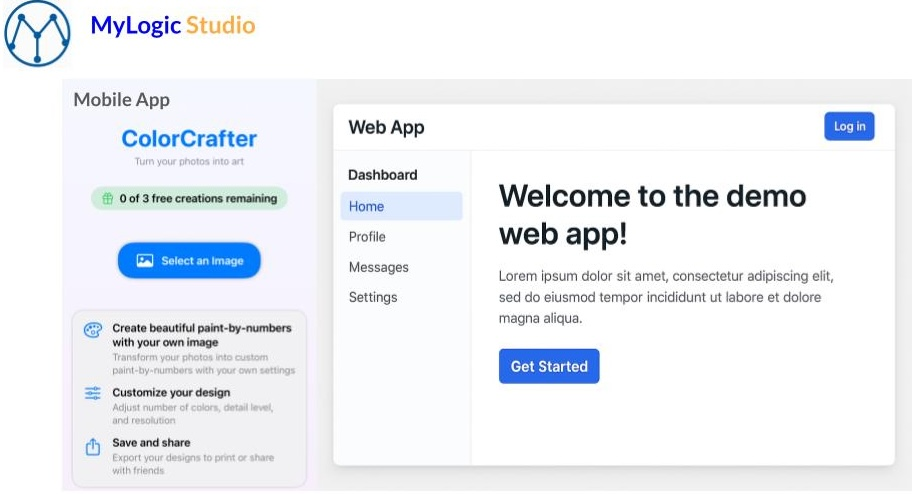
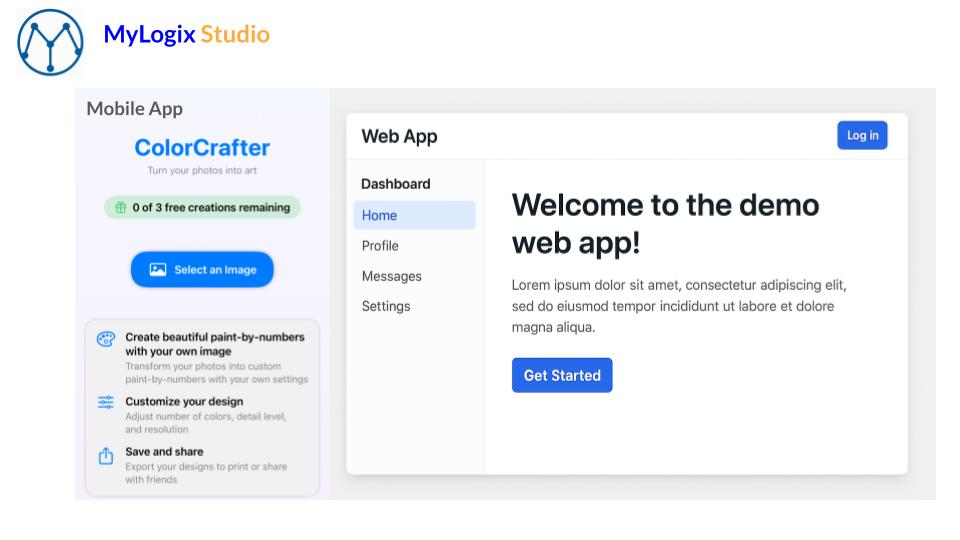
Update website content and images

diff --git a/src/pages/TermsOfServicePage.tsx b/src/pages/TermsOfServicePage.tsx
@@ -99,7 +99,7 @@ const TermsOfServicePage: React.FC = () => {
         
         <TermsText>
           Please read these Terms of Service ("Terms") carefully before using the ColorCrafter mobile 
-          application (the "App") operated by MyLogic Studio LLC ("us", "we", or "our").
+          application (the "App") operated by MyLogix Studio LLC ("us", "we", or "our").
         </TermsText>
         
         <TermsText>
@@ -203,12 +203,12 @@ const TermsOfServicePage: React.FC = () => {
         <TermsTitle>6. Intellectual Property</TermsTitle>
         <TermsList>
           <TermsListItem>
-            The App, including all content, features, and functionality, is owned by MyLogic 
+            The App, including all content, features, and functionality, is owned by MyLogix 
             Studio LLC and is protected by United States and international copyright, trademark, 
             patent, trade secret, and other intellectual property laws.
           </TermsListItem>
           <TermsListItem>
-            ColorCrafter is a trademark of MyLogic Studio LLC.
+            ColorCrafter is a trademark of MyLogix Studio LLC.
           </TermsListItem>
           <TermsListItem>
             Paint-by-numbers templates generated by the App are for personal use only. Commercial 
@@ -222,7 +222,7 @@ const TermsOfServicePage: React.FC = () => {
           EXPRESS OR IMPLIED, INCLUDING, BUT NOT LIMITED TO, IMPLIED WARRANTIES OF MERCHANTABILITY, 
           FITNESS FOR A PARTICULAR PURPOSE, NON-INFRINGEMENT OR COURSE OF PERFORMANCE.
           <br /><br />
-          MyLogic Studio LLC DOES NOT WARRANT THAT: (A) THE APP WILL FUNCTION UNINTERRUPTED, 
+          MyLogix Studio LLC DOES NOT WARRANT THAT: (A) THE APP WILL FUNCTION UNINTERRUPTED, 
           SECURE OR AVAILABLE AT ANY PARTICULAR TIME OR LOCATION; (B) ANY ERRORS OR DEFECTS WILL 
           BE CORRECTED; (C) THE APP IS FREE OF VIRUSES OR OTHER HARMFUL COMPONENTS; OR (D) THE 
           RESULTS OF USING THE APP WILL MEET YOUR REQUIREMENTS.
@@ -230,7 +230,7 @@ const TermsOfServicePage: React.FC = () => {
 
         <TermsTitle>8. Limitation of Liability</TermsTitle>
         <Disclaimer>
-          IN NO EVENT SHALL MyLogic Studio LLC BE LIABLE FOR ANY INDIRECT, INCIDENTAL, SPECIAL, 
+          IN NO EVENT SHALL MyLogix Studio LLC BE LIABLE FOR ANY INDIRECT, INCIDENTAL, SPECIAL, 
           CONSEQUENTIAL OR PUNITIVE DAMAGES, INCLUDING WITHOUT LIMITATION, LOSS OF PROFITS, DATA, 
           USE, GOODWILL, OR OTHER INTANGIBLE LOSSES, RESULTING FROM YOUR ACCESS TO OR USE OF OR 
           INABILITY TO ACCESS OR USE THE APP.
@@ -257,7 +257,7 @@ const TermsOfServicePage: React.FC = () => {
           If you have any questions about these Terms of Service, please contact us at:
         </TermsText>
         <ContactInfo>
-          <strong>MyLogic Studio LLC</strong><br />
+          <strong>MyLogix Studio LLC</strong><br />
           Email: mls@mylogicstudio.com
         </ContactInfo>
       </ContentContainer>

diff --git a/src/pages/AboutPage.tsx b/src/pages/AboutPage.tsx
@@ -130,7 +130,7 @@ const AboutPage: React.FC = () => {
     <>
       <AboutHeader>
         <div className="container">
-          <HeaderTitle>About MyLogic Studio</HeaderTitle>
+          <HeaderTitle>About MyLogix Studio</HeaderTitle>
           <HeaderDescription>
             We are an AI driven technology company dedicated to creating innovative digital solutions that transform how people interact with AI and technology.
             From our flagship ColorCrafter app to comprehensive business solutions, we're committed to delivering exceptional value to our clients.
@@ -143,18 +143,18 @@ const AboutPage: React.FC = () => {
           <AboutContent>
             <AboutTitle>Our Story</AboutTitle>
             <AboutDescription>
-              MyLogic Studio was founded with a clear vision: to help businesses thrive in the digital world through innovative AI driven solutions. 
+              MyLogix Studio was founded with a clear vision: to help businesses thrive in the digital world through innovative AI driven solutions. 
               We started as a small team of tech enthusiasts who believed that AI technology, when properly implemented, could transform businesses and create exceptional experiences for users.
             </AboutDescription>
             <AboutDescription>
               Since our inception, we've grown into a dynamic company of talented developers, designers, and strategists who are passionate about creating digital solutions that drive real business value. We are looking for partnering with companies across various industries, from startups to enterprises, helping them leverage AI technology to achieve their goals.
             </AboutDescription>
             <AboutDescription>
-              Today, MyLogic Studio continues to push the boundaries of what's possible in mobile and web app development with agentic AI, digital platforms, and subscription-based services, always with a focus on quality, innovation, and client success.
+              Today, MyLogix Studio continues to push the boundaries of what's possible in mobile and web app development with agentic AI, digital platforms, and subscription-based services, always with a focus on quality, innovation, and client success.
             </AboutDescription>
           </AboutContent>
           <AboutImage>
-            <img src={`${process.env.PUBLIC_URL}/images/about/team.jpg`} alt="About MyLogic Studio" />
+            <img src={`${process.env.PUBLIC_URL}/images/about/team.jpg`} alt="About MyLogix Studio" />
           </AboutImage>
         </AboutSection>
       </Section>
@@ -178,7 +178,7 @@ const AboutPage: React.FC = () => {
       
       <Section
         title="Our Values"
-        description="The core principles that guide everything we do at MyLogic Studio."
+        description="The core principles that guide everything we do at MyLogix Studio."
       >
         <ValuesGrid>
           <ValueCard>

diff --git a/src/pages/HomePage.tsx b/src/pages/HomePage.tsx
@@ -91,7 +91,7 @@ const HomePage: React.FC = () => {
     <>
       <Hero
         title="Innovative <span>Technology</span> Solutions for Your Business"
-        subtitle="MyLogic Studio delivers cutting-edge mobile and web applications, digital platforms, and subscription-based services to help businesses thrive in the digital world."
+        subtitle="MyLogix Studio (formerly known as MyLogic Studio) delivers cutting-edge mobile and web applications, digital platforms, and subscription-based services designed to help businesses thrive in the digital world."
         primaryButtonText="Our Services"
         secondaryButtonText="Contact Us"
         onPrimaryClick={() => navigate('/services')}
@@ -122,7 +122,7 @@ const HomePage: React.FC = () => {
       <Section
         background="primary"
         title="Why Choose Us"
-        description="At MyLogic Studio, we blend innovative technology with strategic thinking to create solutions that drive business growth."
+        description="At MyLogix Studio, we blend innovative technology with strategic thinking to create solutions that drive business growth."
       >
         <FeatureGrid>
           <Feature>
@@ -204,7 +204,7 @@ const HomePage: React.FC = () => {
         <CTASection>
           <CTATitle>Ready to Transform Your Business?</CTATitle>
           <CTADescription>
-            Get in touch with our team to discuss how MyLogic Studio can help your business thrive in the digital world.
+            Get in touch with our team to discuss how MyLogix Studio can help your business thrive in the digital world.
           </CTADescription>
           <Button 
             variant="primary" 

diff --git a/src/pages/PrivacyPolicyPage.tsx b/src/pages/PrivacyPolicyPage.tsx
@@ -89,7 +89,7 @@ const PrivacyPolicyPage: React.FC = () => {
         <LastUpdated>Last updated: April 2025</LastUpdated>
         
         <PolicyText>
-          MyLogic Studio LLC ("we", "our", or "us") operates the ColorCrafter mobile application (the "App"). 
+          MyLogix Studio LLC ("we", "our", or "us") operates the ColorCrafter mobile application (the "App"). 
           This Privacy Policy informs you of our policies regarding the collection, use, and disclosure of personal data 
           when you use our App and the choices you have associated with that data.
         </PolicyText>
@@ -174,7 +174,7 @@ const PrivacyPolicyPage: React.FC = () => {
           If you have any questions about this Privacy Policy or our data practices, please contact us at:
         </PolicyText>
         <ContactInfo>
-          <strong>MyLogic Studio LLC</strong><br />
+          <strong>MyLogix Studio LLC</strong><br />
           Email: mls@mylogicstudio.com
         </ContactInfo>
       </ContentContainer>

diff --git a/src/components/Footer.tsx b/src/components/Footer.tsx
@@ -109,7 +109,7 @@ const Footer: React.FC = () => {
             <SocialLink href="https://x.com/MylogicStudio" target="_blank" rel="noopener noreferrer">
                   <i className="fab fa-twitter"></i>
             </SocialLink>
-            <SocialLink href="https://www.instagram.com/mylogicstudio/" target="_blank" rel="noopener noreferrer">
+            <SocialLink href="https://www.instagram.com/mylogixstudio/" target="_blank" rel="noopener noreferrer">
                   <i className="fab fa-instagram"></i>
             </SocialLink>
           </SocialLinks>
@@ -118,7 +118,7 @@ const Footer: React.FC = () => {
       
       <Copyright>
         <div className="container">
-          © {new Date().getFullYear()} MyLogic Studio. All rights reserved.
+          © {new Date().getFullYear()} MyLogix Studio. All rights reserved.
         </div>
       </Copyright>
     </FooterContainer>

diff --git a/src/pages/ContactPage.tsx b/src/pages/ContactPage.tsx
@@ -207,7 +207,7 @@ const ContactPage: React.FC = () => {
                   <SocialLink href="https://x.com/MylogicStudio" target="_blank" rel="noopener noreferrer" aria-label="Twitter">
                     <i className="fab fa-twitter"></i>
                   </SocialLink>
-                  <SocialLink href="https://www.instagram.com/mylogicstudio/" target="_blank" rel="noopener noreferrer" aria-label="Instagram">
+                  <SocialLink href="https://www.instagram.com/mylogixstudio/" target="_blank" rel="noopener noreferrer" aria-label="Instagram">
                     <i className="fab fa-instagram"></i>
                   </SocialLink>
                 </SocialLinks>

diff --git a/src/pages/ServicesPage.tsx b/src/pages/ServicesPage.tsx
@@ -257,7 +257,7 @@ const ServicesPage: React.FC = () => {
         <div style={{ textAlign: 'center', color: 'var(--light-text)' }}>
           <h2 style={{ fontSize: '2.5rem', marginBottom: '1.5rem' }}>Ready to Start Your Project?</h2>
           <p style={{ fontSize: '1.25rem', marginBottom: '2rem', maxWidth: '800px', margin: '0 auto 2rem' }}>
-            Contact us today to discuss your project requirements and how MyLogic Studio can help you achieve your goals.
+            Contact us today to discuss your project requirements and how MyLogix Studio can help you achieve your goals.
           </p>
           <Button 
             variant="outline" 

diff --git a/src/components/Header.tsx b/src/components/Header.tsx
@@ -115,8 +115,8 @@ const Header: React.FC = () => {
     <HeaderContainer>
       <NavContainer>
         <Logo to="/">
-          <LogoImage src={`${process.env.PUBLIC_URL}/logo192.png`} alt="MyLogic Studio Logo" />
-          <LogoText>MyLogic<span className="accent">Studio</span></LogoText>
+          <LogoImage src={`${process.env.PUBLIC_URL}/logo192.png`} alt="MyLogix Studio Logo" />
+          <LogoText>MyLogix<span className="accent">Studio</span></LogoText>
         </Logo>
         
         <MenuButton onClick={toggleMenu}>
